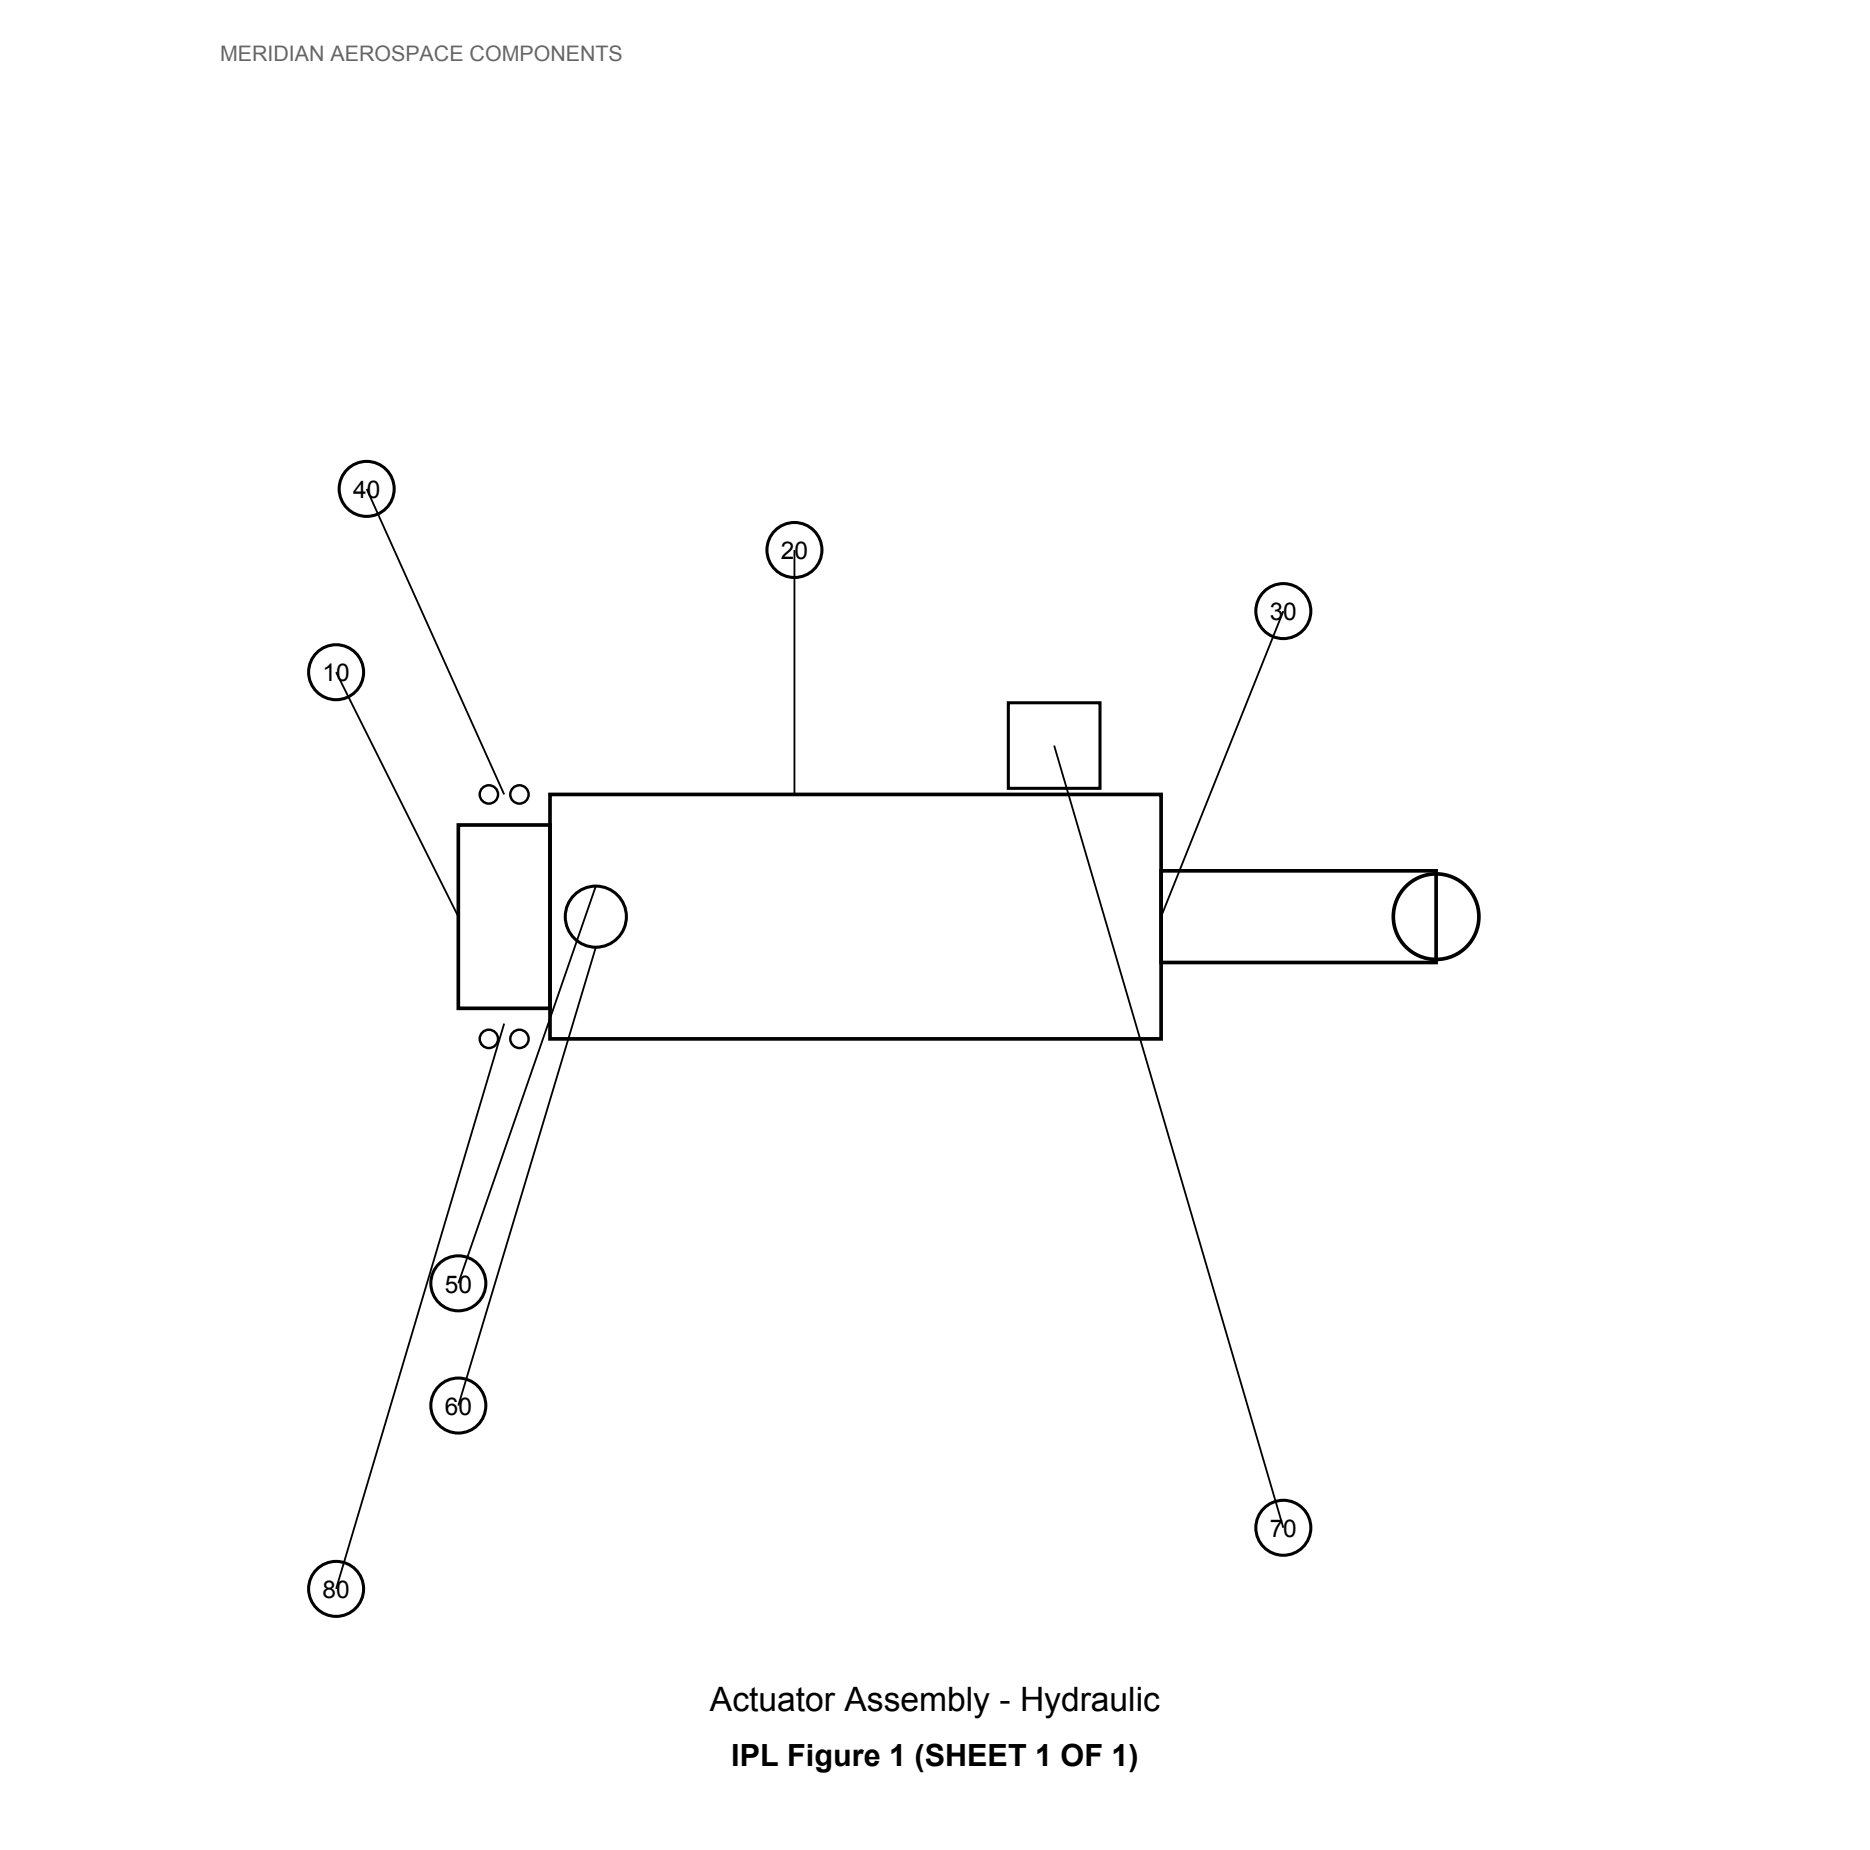
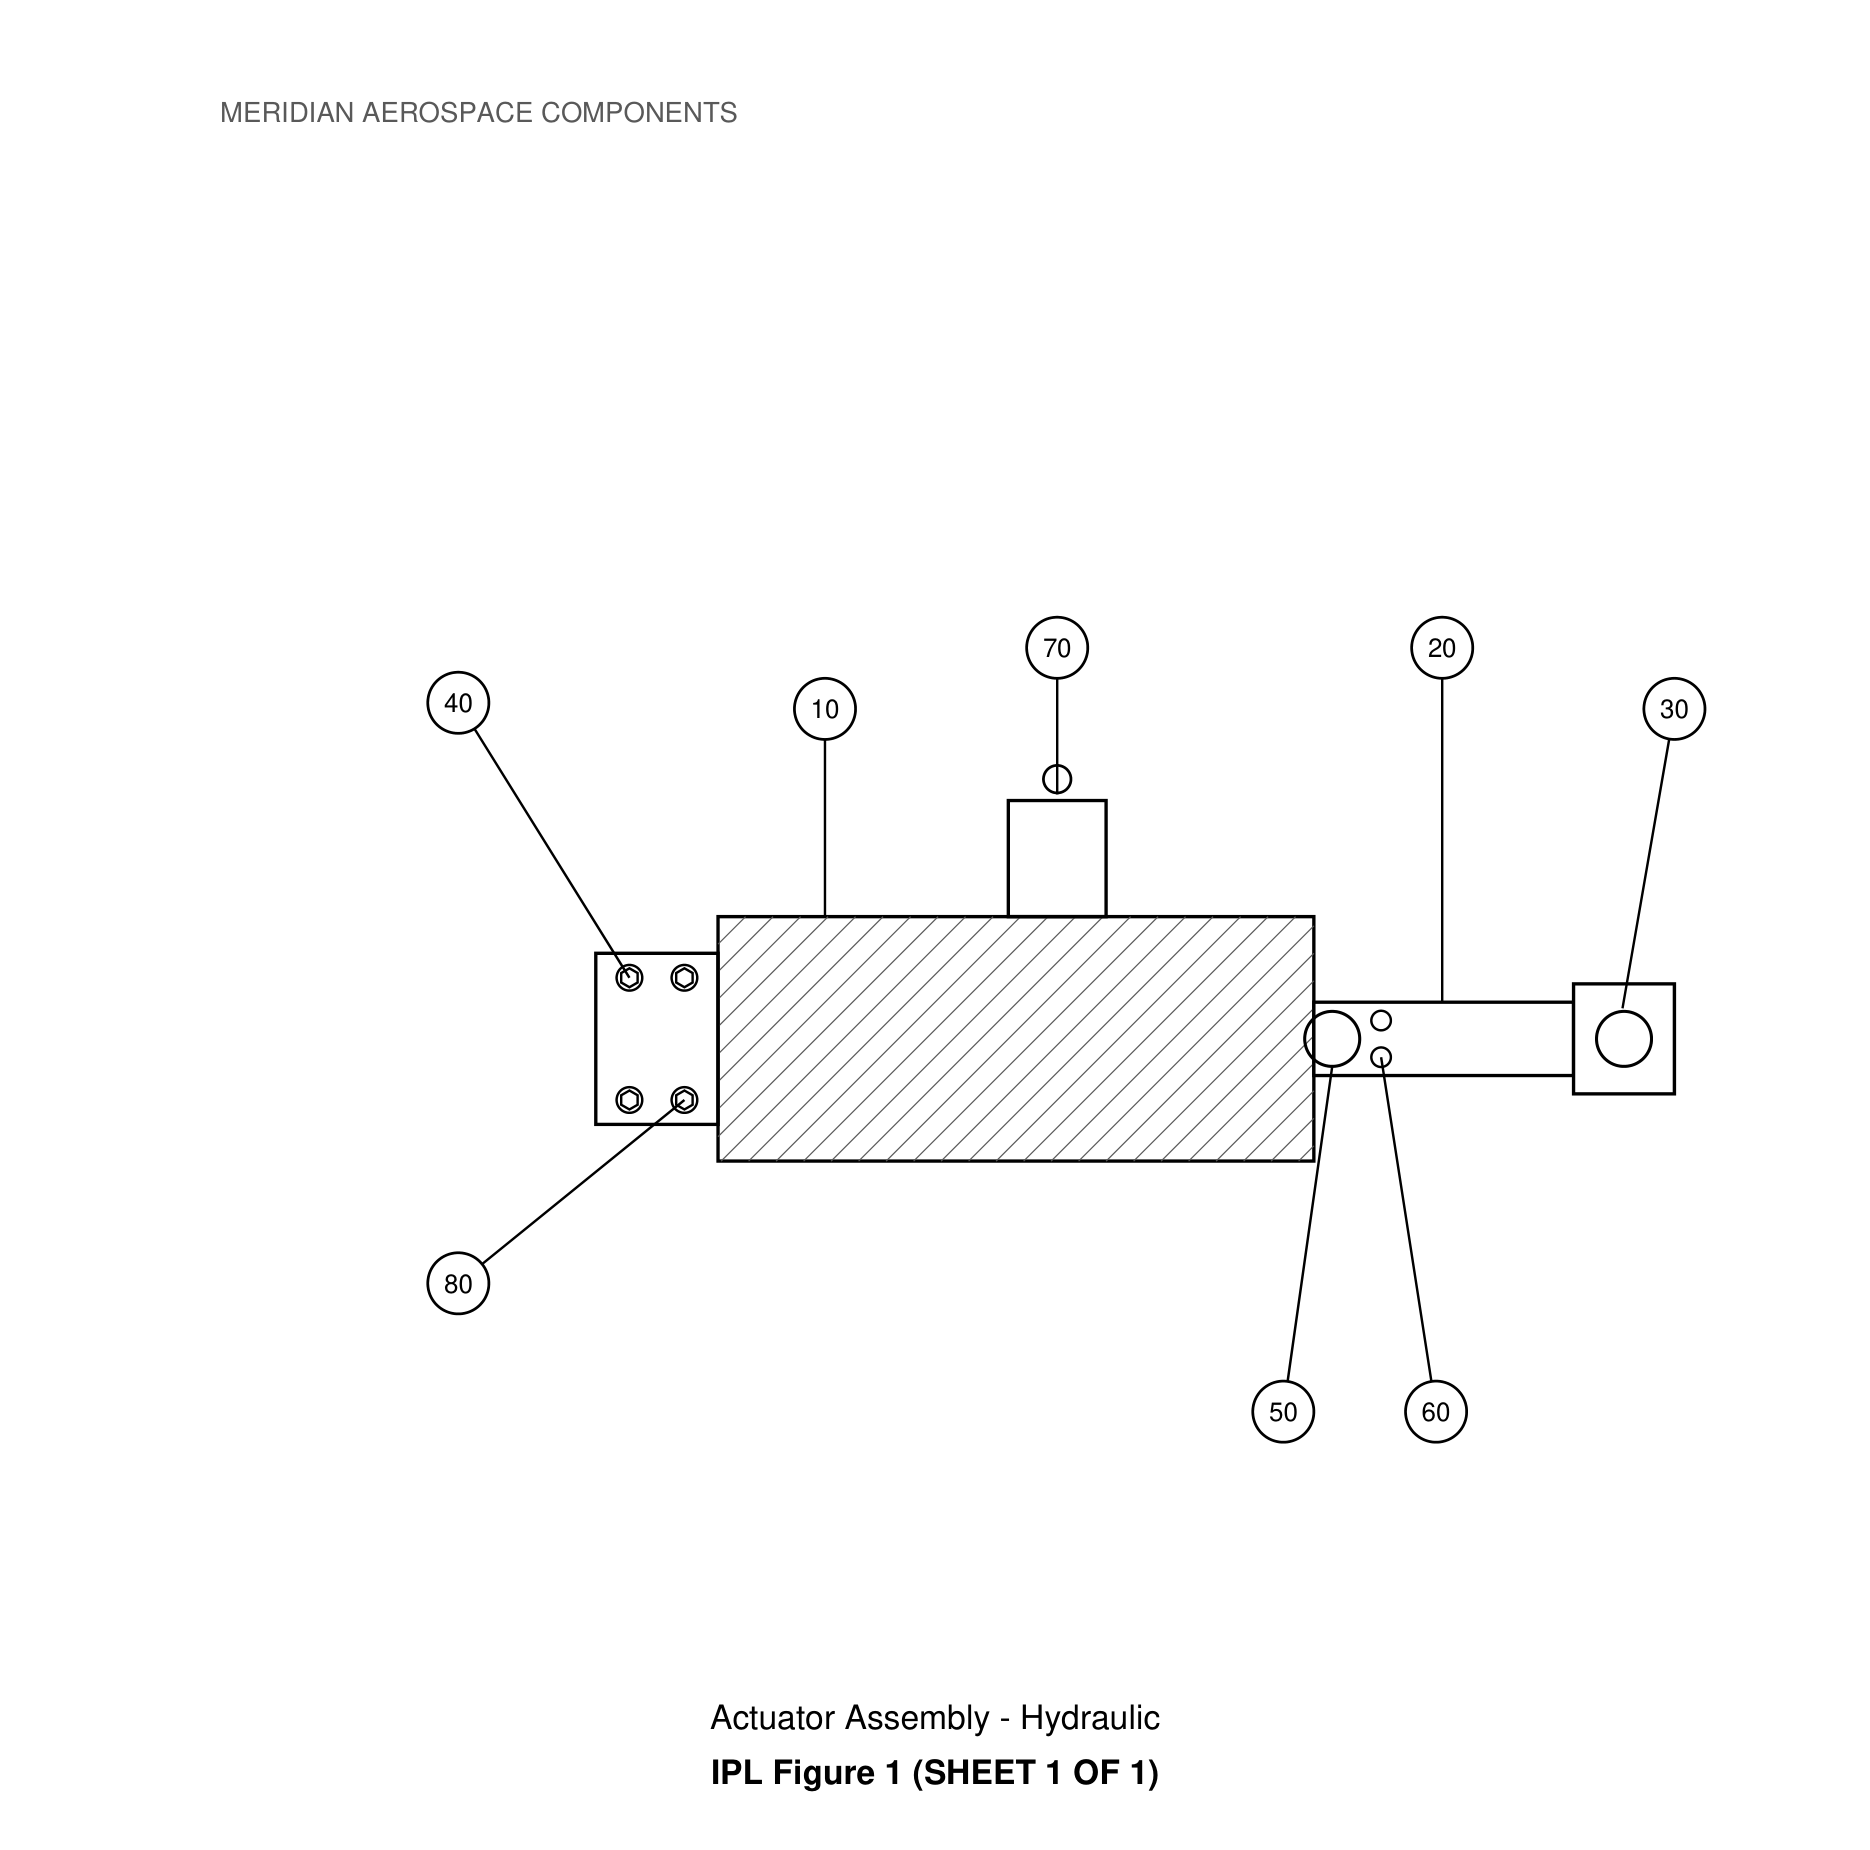
Disegno demo piu' realistico (sezione tratteggiata, bulloni/occhiello) e marker allineati
Figura 1 ora mostra una vera vista in sezione (tratteggio, bulloni esagonali
con rondelle, occhiello forcella sullo stelo) invece di semplici rettangoli;
le percentuali dei tag cliccabili sono state ricalcolate per combaciare con
le nuove posizioni sul disegno.

diff --git a/en/index.html b/en/index.html
@@ -448,14 +448,14 @@
     <div class="interactive-demo">
       <div class="demo-figure-wrap">
         <img src="../figure-demo.png" alt="Technical drawing with numbered tags of a sample component">
-        <button class="tag-marker" data-item="10" style="left:18.01%; top:36.36%" aria-label="Item 10"></button>
-        <button class="tag-marker" data-item="20" style="left:42.47%; top:29.76%" aria-label="Item 20"></button>
-        <button class="tag-marker" data-item="30" style="left:68.62%; top:33.06%" aria-label="Item 30"></button>
-        <button class="tag-marker" data-item="40" style="left:19.58%; top:26.45%" aria-label="Item 40"></button>
-        <button class="tag-marker" data-item="50" style="left:24.51%; top:69.40%" aria-label="Item 50"></button>
-        <button class="tag-marker" data-item="60" style="left:24.50%; top:76.00%" aria-label="Item 60"></button>
-        <button class="tag-marker" data-item="70" style="left:68.63%; top:82.61%" aria-label="Item 70"></button>
-        <button class="tag-marker" data-item="80" style="left:17.97%; top:85.91%" aria-label="Item 80"></button>
+        <button class="tag-marker" data-item="10" style="left:44.12%; top:38.32%" aria-label="Item 10"></button>
+        <button class="tag-marker" data-item="20" style="left:77.12%; top:35.02%" aria-label="Item 20"></button>
+        <button class="tag-marker" data-item="30" style="left:89.54%; top:38.32%" aria-label="Item 30"></button>
+        <button class="tag-marker" data-item="40" style="left:24.51%; top:37.99%" aria-label="Item 40"></button>
+        <button class="tag-marker" data-item="50" style="left:68.63%; top:76.31%" aria-label="Item 50"></button>
+        <button class="tag-marker" data-item="60" style="left:76.80%; top:76.31%" aria-label="Item 60"></button>
+        <button class="tag-marker" data-item="70" style="left:56.54%; top:35.02%" aria-label="Item 70"></button>
+        <button class="tag-marker" data-item="80" style="left:24.51%; top:69.37%" aria-label="Item 80"></button>
       </div>
       <div class="demo-table-wrap">
         <table class="demo-table">

diff --git a/index.html b/index.html
@@ -448,14 +448,14 @@
     <div class="interactive-demo">
       <div class="demo-figure-wrap">
         <img src="figure-demo.png" alt="Disegno tecnico con tag numerati di un componente di esempio">
-        <button class="tag-marker" data-item="10" style="left:18.01%; top:36.36%" aria-label="Item 10"></button>
-        <button class="tag-marker" data-item="20" style="left:42.47%; top:29.76%" aria-label="Item 20"></button>
-        <button class="tag-marker" data-item="30" style="left:68.62%; top:33.06%" aria-label="Item 30"></button>
-        <button class="tag-marker" data-item="40" style="left:19.58%; top:26.45%" aria-label="Item 40"></button>
-        <button class="tag-marker" data-item="50" style="left:24.51%; top:69.40%" aria-label="Item 50"></button>
-        <button class="tag-marker" data-item="60" style="left:24.50%; top:76.00%" aria-label="Item 60"></button>
-        <button class="tag-marker" data-item="70" style="left:68.63%; top:82.61%" aria-label="Item 70"></button>
-        <button class="tag-marker" data-item="80" style="left:17.97%; top:85.91%" aria-label="Item 80"></button>
+        <button class="tag-marker" data-item="10" style="left:44.12%; top:38.32%" aria-label="Item 10"></button>
+        <button class="tag-marker" data-item="20" style="left:77.12%; top:35.02%" aria-label="Item 20"></button>
+        <button class="tag-marker" data-item="30" style="left:89.54%; top:38.32%" aria-label="Item 30"></button>
+        <button class="tag-marker" data-item="40" style="left:24.51%; top:37.99%" aria-label="Item 40"></button>
+        <button class="tag-marker" data-item="50" style="left:68.63%; top:76.31%" aria-label="Item 50"></button>
+        <button class="tag-marker" data-item="60" style="left:76.80%; top:76.31%" aria-label="Item 60"></button>
+        <button class="tag-marker" data-item="70" style="left:56.54%; top:35.02%" aria-label="Item 70"></button>
+        <button class="tag-marker" data-item="80" style="left:24.51%; top:69.37%" aria-label="Item 80"></button>
       </div>
       <div class="demo-table-wrap">
         <table class="demo-table">
